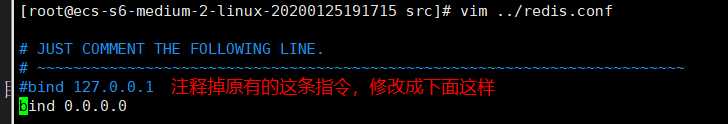
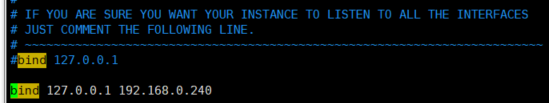
新增Nginx

Changed region(s): [[0.0, 0.0, 0.9909, 1.0]]

diff --git a/常用命令/定时任务.md b/常用命令/定时任务.md
@@ -1,0 +1,55 @@
+# 定时任务
+
+[linux定时任务](https://blog.csdn.net/antch620/article/details/88976473)
+
+`crontab -l` 列出当前用户所有的定时任务。对于root用户，即列出/var/spool/cron/root文件（默认存在）中的定时任务。对于非root用户，如usertest，默认不存在/var/spool/cron/usertest文件，执行该命令会报no crontab for usertest，
+
+`crontab -e` 编辑某个用户的crontab文件，如root用户，相当于`vim /var/spool/cron/root`
+
+/var/spool/cron的文件属性默认是rwx------
+
+## 1 添加任务
+
+如当前用户usertest，新建/home/usertest/test/shell/hello.sh文件。内容：
+
+```sh
+#!/bin/bash
+echo "Hello World!" >> /home/usertest/test/shell/result
+```
+
+表示添加Hello World!到/home/usertest/test/shell/result文件。
+
+执行`chmod +x hello.py`给文件hello.py添加可执行权限
+
+`crontab -e`编辑当前用户的corntab文件。在编辑界面添加
+
+```
+#会每分钟向/home/usertest/test/shell/result文件添加Hello World!
+*/1 * * * * /home/usertest/test/shell/hello.sh
+```
+
+保存并退出。保存完定时任务即生效，会每分钟向/home/usertest/test/shell/result文件添加Hello World!
+
+如果usertest用户第一次添加定时任务，会在/var/spool/cron目录下生成usertest文件，内容为
+
+```
+#会每分钟向/home/usertest/test/shell/result文件添加Hello World!
+*/1 * * * * /home/usertest/test/shell/hello.sh
+```
+
+## 2 修改任务
+
+`crontab -e` 编辑crontab文件，修改相应的定时任务，保存退出后即生效。
+
+## 3 删除任务
+
+`crontab -e` 删除相应的定时任务，保存退出后即生效。
+
+
+## 4 注意
+
+- 在每一条定时任务上方加上解释作用的注释
+
+- `R`键紧邻`E`键，执行`crontab -e`时要小心，不要输入成了`crontab -r`，这会删除crontab文件
+
+- 系统执行定时任务的日志存放在/var/log/cron，权限rw-------，日积月累，日志信息会非常大，可能会影响系统的正常运行，因此要定期清理日志文件`tail -f /var/log/cron `

diff --git a/常用命令/用户和用户组管理.md b/常用命令/用户和用户组管理.md
@@ -32,9 +32,24 @@ pwd 是 Print Working Directory 的缩写，也就是显示目前所在目录的
 
 ## 2 切换用户
 
-`su username 【username是你的用户名哦】`
+`su [-] username 【username是你的用户名哦】`
 
-在切换用户时，如果想在切换用户之后使用新用户的工作环境，可以在su和username之间加-，例如：【su - root】，注意：su和-、-和root直接有空格
+从root用户切换到非root用户，无需输入密码，执行完命令即切换成功。从非root用户切换到其他用户，提示需要输入密码。
+
+'-'，表示切换用户后直接进入到该用户的家目录（也叫主目录），否则进入切换之前所在目录。注意，'-' 和su、username之间都要有空格。
+
+即：
+
+```sh
+su - username
+```
+
+等价于
+
+```sh
+su username
+cd ~
+```
 
 ## 3 对用户的管理
 

diff --git a/程序安装/Redis.md b/程序安装/Redis.md
@@ -61,6 +61,16 @@ Response received : -DENIED Redis is running in protected mode because protected
 
 ![01](./images/01.png)
 
+绑定127.0.0.1，可以在安装了Redis服务的本地主机连接Redis服务。
+
+192.168.0.140时通过执行ifconfig得到的，用于在Window的远程连接Redis服务。
+
+注意：这里应该bind的是redis所在服务器网卡的ip。也就是说，如果你的redis服务器有两张网卡，一张是ip-1,另一张是ip-2，如果你bind ip-1.那么只有请求ip-1的请求会被受理。127.0.0.1好比时卧室的门，192.168.0.240时家的大门，家可能还有后门...，打开卧室的门允许家人内部流动，打开大门、后面可以允许外面的人进入家里
+
+![35](./images/35.png)
+
+![36](./images/36.png)
+
 - 给Reids服务设置密码，通过ip地址和密码登录↓
 
 ![02](./images/02.png)

diff --git a/程序安装/Node.md b/程序安装/Node.md
@@ -1,0 +1,38 @@
+# Node
+
+## 1 下载安装包 
+
+进入/root/download目录，下载Node安装包`wget https://npm.taobao.org/mirrors/node/v12.16.1/node-v12.16.1-linux-x64.tar.xz`，获取下载路径↓
+![37](./images/37.png)
+
+## 2 解压安装包
+
+`tar -xvf node-v12.16.1-linux-x64.tar.xz`
+
+## 3 移动并改名
+
+将解压后的文件夹移动到/usr/local目录下，并修改目录名称
+
+```sh
+cd /usr/local/
+mv /root/download/node-v12.16.1-linux-x64 . #后面的.表示移动到当前目录
+mv node-v12.16.1-linux-x64/ nodejs
+```
+
+## 4 设置环境变量
+
+编辑/etc/profile，在文件末尾增加配置
+
+```sh
+export PATH=$PATH:/usr/local/nodejs/bin
+```
+
+执行`source /etc/profile`使改动生效。
+
+## 5 验证是否安装成功
+
+```sh
+node -v
+npm -v
+```
+

diff --git a/程序安装/Nginx.md b/程序安装/Nginx.md
@@ -1,0 +1,39 @@
+# Nginx
+
+## 1 检查yum源
+
+可以通过安装包的方式和yum的方式来安装Nginx，这里介绍基于Yum的方式安装Nginx。[链接](http://nginx.org/en/docs/install.html)
+
+![39](./images/39.png)
+
+查看Nginx是否在可安装软件清单列表中
+
+`yum list | grep nginx`
+
+如果出现以下内容说明yum源是存在的。
+
+![38](./images/38.png)
+
+如果当前yum源中没有Nginx，那么需要新增一个yum源
+
+通过`vim /etc/yum.repos.d/nginx.repo`创建nginx.repo文件，内容如下：
+```sh
+[nginx]
+name=nginx repo
+baseurl=http://nginx.org/packages/centos/$releasever/$basearch/
+gpgcheck=0
+enabled=1
+```
+
+## 2 安装
+
+```sh
+yum install nginx
+```
+
+## 3 检验是否安装成功
+
+```sh
+nginx -v
+```
+

diff --git a/程序安装/Git.md b/程序安装/Git.md
@@ -1,0 +1,3 @@
+# Git
+
+[CentOS7安装Git以及操作](https://blog.csdn.net/xwj1992930/article/details/96428998)
